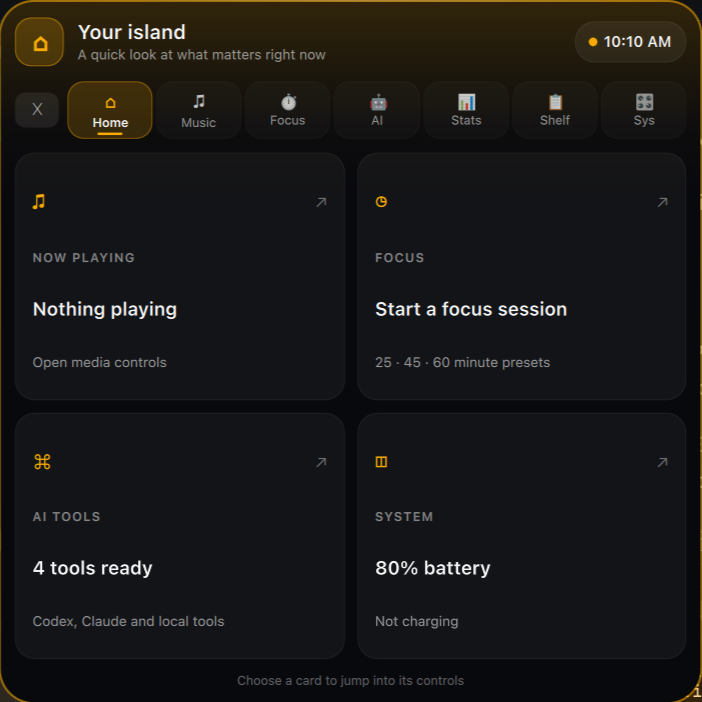
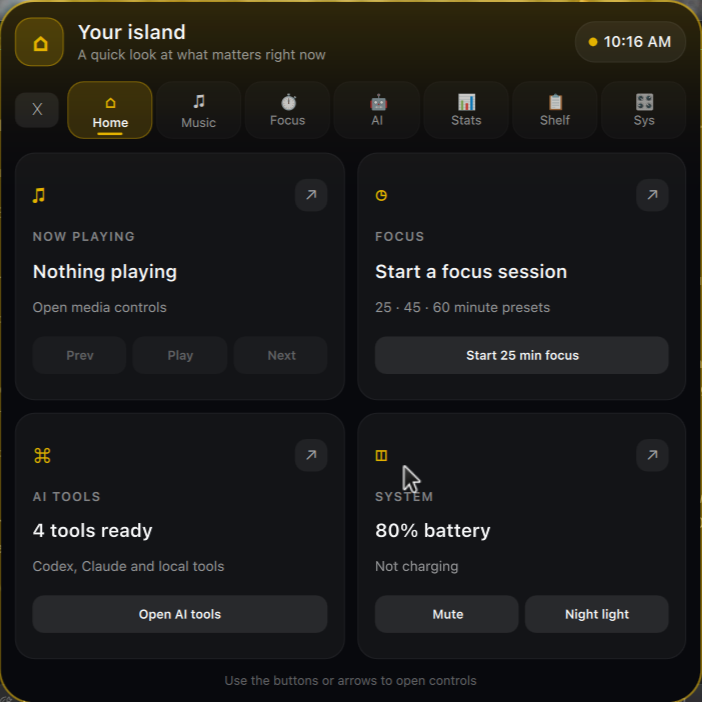
feat: add island quick actions and secure clipboard previews

diff --git a/components/HomeOverview.qml b/components/HomeOverview.qml
@@ -1,4 +1,5 @@
 import QtQuick
+import QtQuick.Controls
 import QtQuick.Layouts
 import qs.Commons
 
@@ -9,10 +10,15 @@ Item {
   property color foreground: "#f8f9fa"
   property color mutedForeground: Qt.rgba(1, 1, 1, 0.58)
   property bool hasTrack: false
+  property bool isPlaying: false
+  property bool canPlayPause: false
+  property bool canGoPrevious: false
+  property bool canGoNext: false
   property string mediaTitle: ""
   property string mediaArtist: ""
   property string playerName: ""
   property bool timerActive: false
+  property bool timerRunning: false
   property int timerLeft: 0
   property string timerName: ""
   property int availableAgents: 0
@@ -21,8 +27,10 @@ Item {
   property string batteryStatus: "Unavailable"
   property int systemVolume: 0
   property bool systemMuted: false
+  property bool nightlightEnabled: false
 
   signal navigate(string page)
+  signal actionRequested(string action)
 
   readonly property var entries: [
     { key: "music", title: "NOW PLAYING", icon: "♫" },
@@ -43,6 +51,11 @@ Item {
     if (key === "timer") return timerActive ? (timerName || "Focus session") : "25 · 45 · 60 minute presets"
     if (key === "agents") return "Codex, Claude and local tools"
     return batteryAvailable ? batteryStatus : (systemMuted ? "Muted" : "Audio controls")
+  }
+
+  function focusActionLabel() {
+    if (!timerActive) return "Start 25 min focus"
+    return timerRunning ? "Pause focus" : "Resume focus"
   }
 
   function formatTime(seconds) {
@@ -70,10 +83,10 @@ Item {
           Layout.fillWidth: true
           Layout.fillHeight: true
           radius: Style.space(15)
-          color: pointer.containsMouse
+          color: pointerHover.hovered
             ? Qt.rgba(root.accent.r, root.accent.g, root.accent.b, 0.13)
             : Qt.rgba(1, 1, 1, 0.045)
-          border.color: pointer.containsMouse
+          border.color: pointerHover.hovered
             ? Qt.rgba(root.accent.r, root.accent.g, root.accent.b, 0.38)
             : Qt.rgba(1, 1, 1, 0.09)
 
@@ -93,10 +106,22 @@ Item {
                 font.pixelSize: Style.space(16)
               }
               Item { Layout.fillWidth: true }
-              Text {
-                text: "↗"
-                color: Qt.rgba(root.foreground.r, root.foreground.g, root.foreground.b, 0.4)
-                font.pixelSize: Style.space(12)
+              Rectangle {
+                width: Style.space(24)
+                height: Style.space(24)
+                radius: Style.space(8)
+                color: Qt.rgba(1, 1, 1, 0.06)
+                Text {
+                  anchors.centerIn: parent
+                  text: "↗"
+                  color: Qt.rgba(root.foreground.r, root.foreground.g, root.foreground.b, 0.65)
+                  font.pixelSize: Style.space(12)
+                }
+                MouseArea {
+                  anchors.fill: parent
+                  cursorShape: Qt.PointingHandCursor
+                  onClicked: root.navigate(tile.modelData.key)
+                }
               }
             }
 
@@ -129,14 +154,125 @@ Item {
               font.pixelSize: Style.space(10)
               color: root.mutedForeground
             }
+
+            RowLayout {
+              Layout.fillWidth: true
+              spacing: Style.space(5)
+              visible: tile.modelData.key === "music"
+              Repeater {
+                model: [
+                  { label: "Prev", action: "media-previous", enabled: root.canGoPrevious },
+                  { label: root.isPlaying ? "Pause" : "Play", action: "media-toggle", enabled: root.canPlayPause },
+                  { label: "Next", action: "media-next", enabled: root.canGoNext }
+                ]
+                Rectangle {
+                  id: mediaButton
+                  required property var modelData
+                  Layout.fillWidth: true
+                  height: Style.space(28)
+                  radius: Style.space(8)
+                  color: Qt.rgba(1, 1, 1, mediaButton.modelData.enabled ? 0.09 : 0.035)
+                  Text {
+                    anchors.centerIn: parent
+                    text: mediaButton.modelData.label
+                    color: Qt.rgba(root.foreground.r, root.foreground.g, root.foreground.b, mediaButton.modelData.enabled ? 0.86 : 0.32)
+                    font.family: Style.font.family
+                    font.pixelSize: Style.space(9)
+                    font.weight: Font.DemiBold
+                  }
+                  MouseArea {
+                    anchors.fill: parent
+                    enabled: mediaButton.modelData.enabled
+                    cursorShape: Qt.PointingHandCursor
+                    onClicked: root.actionRequested(mediaButton.modelData.action)
+                  }
+                }
+              }
+            }
+
+            Rectangle {
+              Layout.fillWidth: true
+              height: Style.space(28)
+              radius: Style.space(8)
+              color: Qt.rgba(1, 1, 1, 0.09)
+              visible: tile.modelData.key === "timer"
+              Text {
+                anchors.centerIn: parent
+                text: root.focusActionLabel()
+                color: root.foreground
+                font.family: Style.font.family
+                font.pixelSize: Style.space(9)
+                font.weight: Font.DemiBold
+              }
+              MouseArea {
+                anchors.fill: parent
+                visible: tile.modelData.key === "timer"
+                cursorShape: Qt.PointingHandCursor
+                onClicked: root.actionRequested("focus-toggle")
+              }
+            }
+
+            RowLayout {
+              Layout.fillWidth: true
+              spacing: Style.space(5)
+              visible: tile.modelData.key === "agents"
+              Rectangle {
+                Layout.fillWidth: true
+                height: Style.space(28)
+                radius: Style.space(8)
+                color: Qt.rgba(1, 1, 1, 0.09)
+                Text {
+                  anchors.centerIn: parent
+                  text: "Open AI tools"
+                  color: root.foreground
+                  font.family: Style.font.family
+                  font.pixelSize: Style.space(9)
+                  font.weight: Font.DemiBold
+                }
+                MouseArea {
+                  anchors.fill: parent
+                  cursorShape: Qt.PointingHandCursor
+                  onClicked: root.navigate("agents")
+                }
+              }
+            }
+
+            RowLayout {
+              Layout.fillWidth: true
+              spacing: Style.space(5)
+              visible: tile.modelData.key === "system"
+              Repeater {
+                model: [
+                  { label: root.systemMuted ? "Unmute" : "Mute", action: "toggle-mute" },
+                  { label: root.nightlightEnabled ? "Night light on" : "Night light", action: "toggle-nightlight" }
+                ]
+                Rectangle {
+                  id: systemButton
+                  required property var modelData
+                  Layout.fillWidth: true
+                  height: Style.space(28)
+                  radius: Style.space(8)
+                  color: Qt.rgba(1, 1, 1, 0.09)
+                  Text {
+                    anchors.centerIn: parent
+                    text: systemButton.modelData.label
+                    color: root.foreground
+                    font.family: Style.font.family
+                    font.pixelSize: Style.space(9)
+                    font.weight: Font.DemiBold
+                  }
+                  MouseArea {
+                    anchors.fill: parent
+                    cursorShape: Qt.PointingHandCursor
+                    onClicked: root.actionRequested(systemButton.modelData.action)
+                  }
+                }
+              }
+            }
           }
 
-          MouseArea {
-            id: pointer
-            anchors.fill: parent
-            hoverEnabled: true
-            cursorShape: Qt.PointingHandCursor
-            onClicked: root.navigate(tile.modelData.key)
+          HoverHandler {
+            id: pointerHover
           }
         }
       }
@@ -144,7 +280,7 @@ Item {
 
     Text {
       Layout.fillWidth: true
-      text: "Choose a card to jump into its controls"
+      text: "Use the buttons or arrows to open controls"
       horizontalAlignment: Text.AlignHCenter
       color: Qt.rgba(root.foreground.r, root.foreground.g, root.foreground.b, 0.38)
       font.family: Style.font.family

diff --git a/IslandCore.qml b/IslandCore.qml
@@ -739,11 +739,6 @@ Item {
     refreshTelemetry()
   }
 
-  function updateSystem() {
-    Quickshell.execDetached(["foot", "-e", "bash", "-c", "omarchy update || yay -Syu; exec bash"])
-    root.isExpanded = false
-  }
-
   function checkUpdates() {
     Quickshell.execDetached(["bash", scriptPath, "check-updates"])
     triggerPeek("📦", "Checking Updates", "Refreshing package repositories...", "system", 1800)
@@ -1675,10 +1670,15 @@ Item {
           foreground: root.capsuleInk
           mutedForeground: Qt.rgba(root.capsuleInk.r, root.capsuleInk.g, root.capsuleInk.b, 0.58)
           hasTrack: root.hasTrack
+          isPlaying: root.isPlaying
+          canPlayPause: root.currentPlayer ? root.currentPlayer.canTogglePlaying === true : false
+          canGoPrevious: root.currentPlayer ? root.currentPlayer.canGoPrevious === true : false
+          canGoNext: root.currentPlayer ? root.currentPlayer.canGoNext === true : false
           mediaTitle: root.mediaTitle
           mediaArtist: root.mediaArtist
           playerName: root.playerName
           timerActive: root.timerActive
+          timerRunning: root.timerRunning
           timerLeft: root.timerLeft
           timerName: root.timerName
           availableAgents: root.availableAgentCount()
@@ -1687,7 +1687,18 @@ Item {
           batteryStatus: root.batteryStatus
           systemVolume: root.systemVolume
           systemMuted: root.systemMuted
+          nightlightEnabled: root.nightlightEnabled
           onNavigate: function(page) { root.activeTab = page }
+          onActionRequested: function(action) {
+            if (action === "media-previous") root.mediaAction("previous")
+            else if (action === "media-toggle") root.mediaAction("play-pause")
+            else if (action === "media-next") root.mediaAction("next")
+            else if (action === "focus-toggle") {
+              if (root.timerActive) root.toggleTimer()
+              else root.startTimer(25, "Focus session", "focus")
+            } else if (action === "toggle-mute") root.toggleSystemMute()
+            else if (action === "toggle-nightlight") root.toggleNightlight()
+          }
         }
 
         // ================= TAB 1: MUSIC =================
@@ -2873,7 +2884,7 @@ Item {
               Text {
                 Layout.fillWidth: true
                 text: root.systemUpdatesCount > 0
-                  ? root.systemUpdatesCount + " System Update" + (root.systemUpdatesCount === 1 ? "" : "s") + " Available"
+                  ? root.systemUpdatesCount + " update" + (root.systemUpdatesCount === 1 ? "" : "s") + " available · review before install"
                   : "Arch & Omarchy Packages Up to Date"
                 font.family: Style.font.family
                 font.pixelSize: Style.space(10)
@@ -2881,18 +2892,6 @@ Item {
                 color: root.systemUpdatesCount > 0 ? "#fbbf24" : Qt.rgba(root.capsuleInk.r, root.capsuleInk.g, root.capsuleInk.b, 0.7)
               }
               Controls.Button {
-                visible: root.systemUpdatesCount > 0
-                text: "Update Now"
-                onClicked: root.updateSystem()
-                background: Rectangle {
-                  radius: Style.space(5)
-                  color: Qt.rgba(0.96, 0.62, 0.04, 0.25)
-                  border.color: "#f59e0b"
-                }
-                contentItem: Text { text: "Update Now"; font.pixelSize: Style.space(9); font.bold: true; color: "#fef08a" }
-              }
-              Controls.Button {
-                visible: root.systemUpdatesCount === 0
                 text: "Check"
                 onClicked: root.checkUpdates()
                 background: Rectangle { radius: Style.space(5); color: Qt.rgba(1, 1, 1, 0.08) }

diff --git a/README.md b/README.md
@@ -18,7 +18,10 @@ The Home page shows live status cards. Select a card to open its control page.
 
 ### 🏠 Home Overview
 - See the current track, focus timer, available AI tools, battery, and audio status at a glance.
-- Select a card to open its control page.
+- Use the media buttons to skip or play tracks.
+- Start or pause a 25-minute focus timer from Home.
+- Toggle mute or Night Light from Home.
+- Select an arrow or AI button to open its control page.
 - Open the island to the Home page by default.
 
 
@@ -46,7 +49,7 @@ The Home page shows live status cards. Select a card to open its control page.
   - **Swap Memory:** Used / Total GB and percentage
   - **GPU VRAM & Temperature:** Real-time VRAM allocation and thermals (°C)
 - **⚡ Memory Optimizer:** 1-click button to flush page caches, drop caches, and sync memory to disk.
-- **📦 Arch & Omarchy Updates Monitor:** Background update checking via `checkupdates` with an interactive `[Update Now]` terminal launcher.
+- **📦 Arch & Omarchy Updates Monitor:** Read-only update checks via `checkupdates`. Review updates, then run the system updater yourself.
 
 ### 🔔 Apple-Grade Notification Peek Banners
 - **Live System Peeking:** The island springs open into an elegant notification banner for ~2.6s upon:
@@ -79,7 +82,7 @@ The Home page shows live status cards. Select a card to open its control page.
 
 ### 📋 Shelf, Trash Guard & Persistent Scratchpad
 - **Trash Guard Cleaner:** Live item counter for `~/.local/share/Trash` with a 1-click `[Empty]` button.
-- **Live Clipboard Preview:** Shows copied text snippet or full image thumbnail with 1-click "Copy Again" and "Clear" buttons.
+- **Live Clipboard Preview:** Shows a copied text snippet or image preview with "Copy Again" and "Clear" actions. Image previews use a private runtime directory and a 20 MiB size limit.
 - **Recent Screenshots Gallery:** Interactive thumbnail strip of the 4 latest screenshots with 1-click open.
 - **Auto-Saved Scratchpad:** Persistent multi-line notepad for draft prompts, code snippets, or thoughts that survives shell reboots.
 

diff --git a/CHANGELOG.md b/CHANGELOG.md
@@ -1,5 +1,13 @@
 # Changelog
 
+## 3.0.1
+
+- Add one-tap media transport, focus timer, mute, and Night Light controls to Home.
+- Store clipboard image previews in a private runtime directory with owner-only file access.
+- Remove clipboard preview files when the clipboard changes or clears.
+- Limit clipboard image previews to 20 MiB.
+- Keep update checks read-only. Remove the one-click package update command.
+
 ## 3.0.0
 
 - Add a Home overview with live media, timer, AI tool, battery, and audio status cards.
